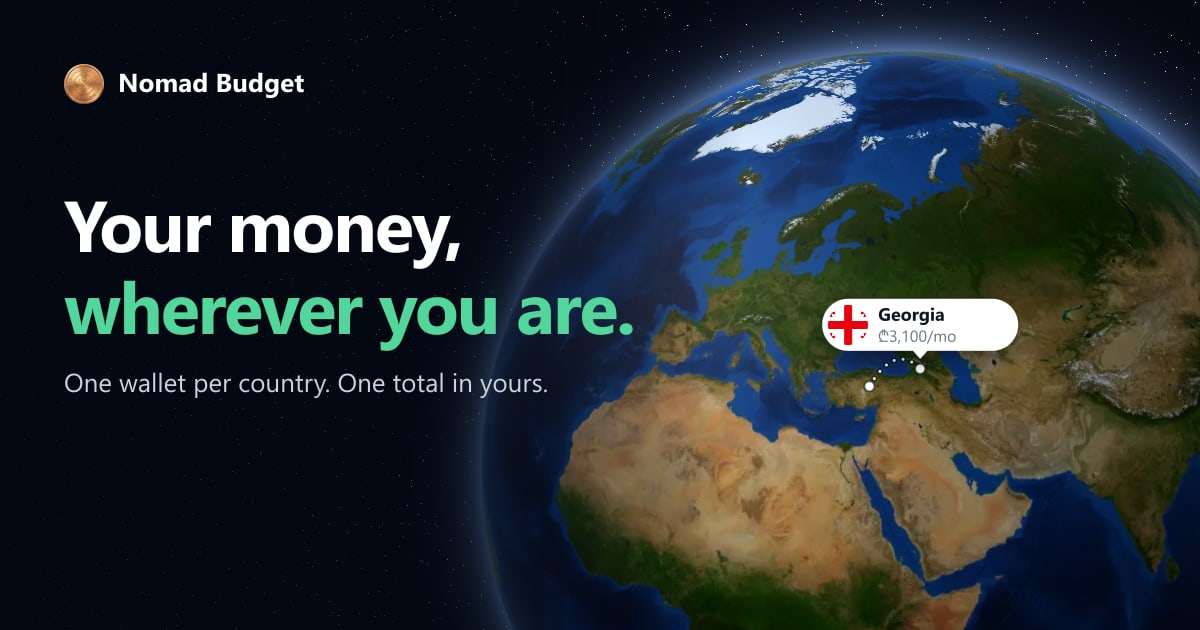
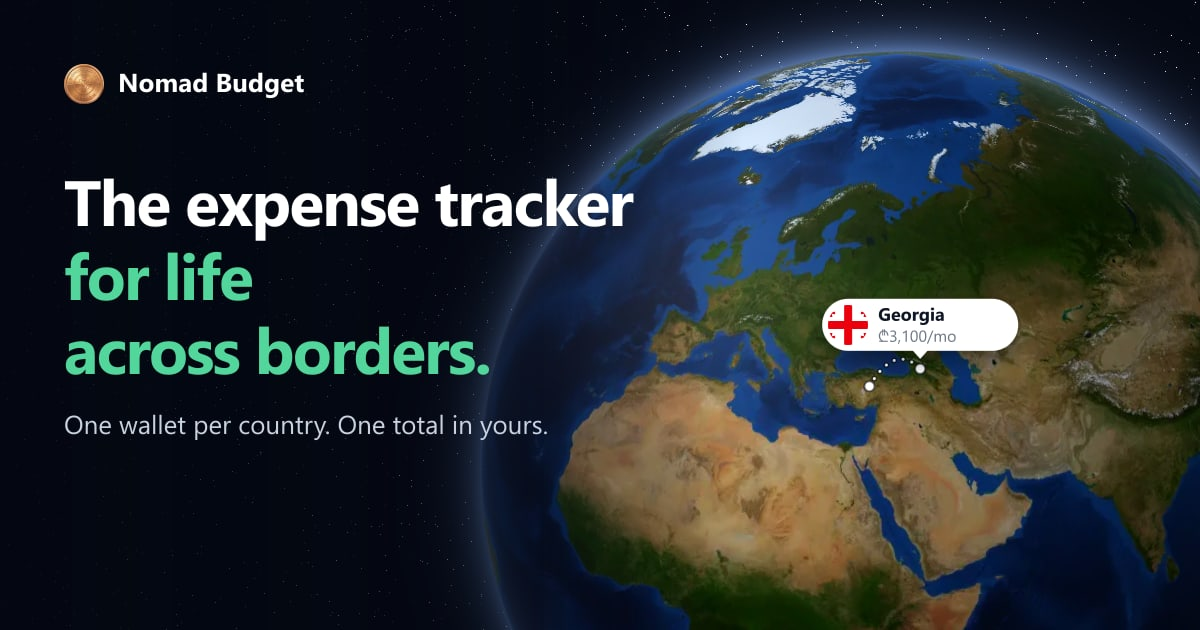
Social cards: the hero's new headline, at a new address
The cards still carried the old headline ("Your money, wherever you are."). They are
rebuilt with the hero's own words in three lines, and the pages point at them with a
version in the address (ogCard in i18n.ts), since X, Facebook and the CDN keep a card
by its address and would otherwise go on showing the old one.

Changed region(s): [[0.0308, 0.2714, 0.5242, 0.6333], [0.0617, 0.6635, 0.4625, 0.6937]]

diff --git a/src/i18n.ts b/src/i18n.ts
@@ -8,6 +8,11 @@ export const APP_STORE_ID = '6803787746';
 export const CONTACT = 'nomadbudget@rubeeks.co';
 export const LEGAL = 'https://legal.rubeeks.co/nomadbudget';
 
+/** The site's social card (public/og-*.jpg, from scripts/build-og.mjs). Raise `v` each
+ *  time the cards are rebuilt: X, Facebook and the CDN keep a card by its address, and
+ *  only a new address makes them fetch the new one. */
+export const ogCard = (lang: Lang) => `/og-${lang}.jpg?v=2`;
+
 export const appStoreUrl = (lang: Lang) =>
   `https://apps.apple.com/${lang === 'tr' ? 'tr' : 'us'}/app/nomad-budget/id${APP_STORE_ID}`;
 
